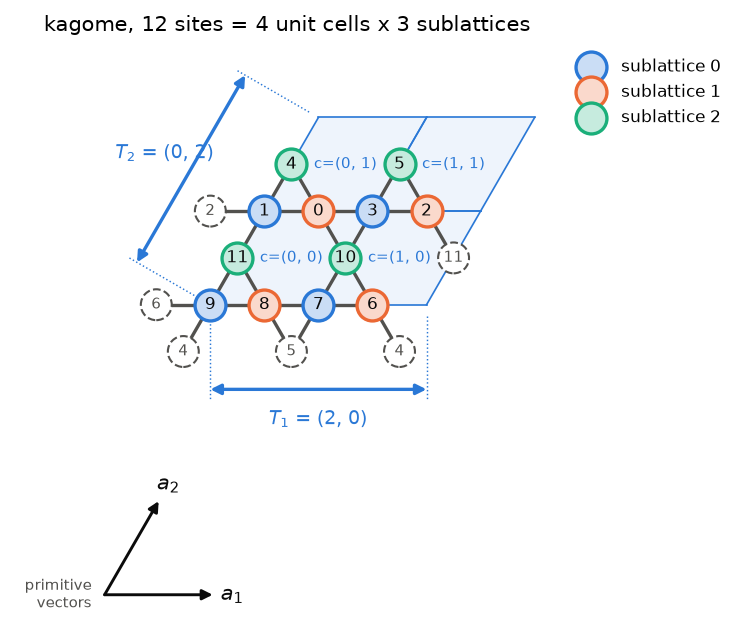
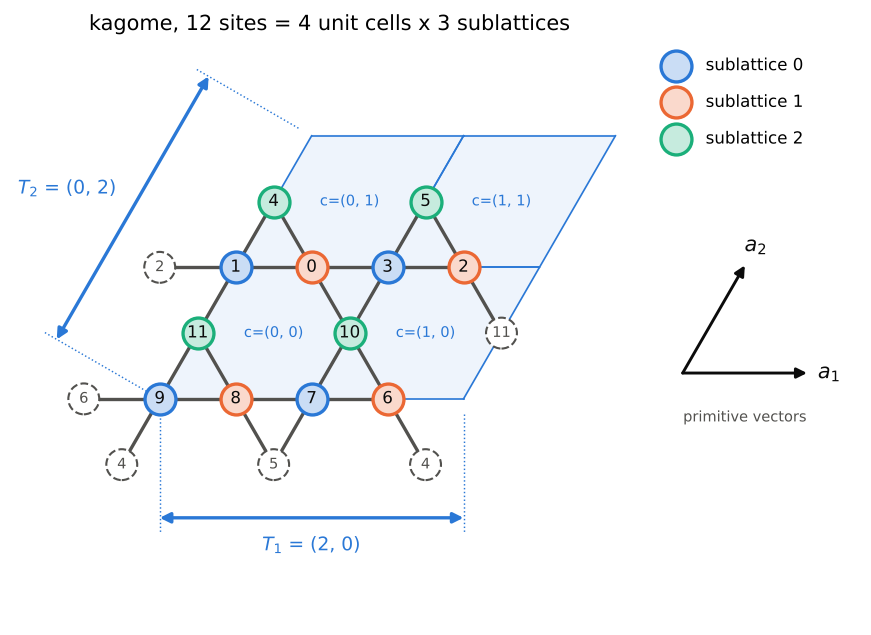
Plot: clearer quick-start figure
The T labels grow away from their arrows, the legend entries have more room,
and the primitive-vector key sits below the legend.

Claude-Session: https://claude.ai/code/session_01Rhgjahj6f6kNAEbg1WQurS

diff --git a/src/clustercert/plot.py b/src/clustercert/plot.py
@@ -171,23 +171,26 @@ def plot(result, lattice=None, *, further=(), details=False, ax=None, labels=Non
             for end in (0 * v, v):         # thin ticks back to the supercell corners
                 ax.plot(*zip(end + 0.1 * reach * normal, base + end + 0.1 * reach * normal), color=ACCENT,
                         lw=0.7, ls=':')
-            ax.text(*(base + v / 2 + 0.28 * reach * normal), f'$T_{j + 1}$ = {tuple(h[j])}',
-                    color=ACCENT, fontsize=9, ha='center', va='center', rotation=0)
+            # the label grows away from the arrow, so a slanted arrow does not cut through it
+            ha = 'right' if normal[0] < -0.3 else 'left' if normal[0] > 0.3 else 'center'
+            va = 'top' if normal[1] < -0.3 else 'bottom' if normal[1] > 0.3 else 'center'
+            ax.text(*(base + v / 2 + 0.12 * reach * normal), f'$T_{j + 1}$ = {tuple(h[j])}',
+                    color=ACCENT, fontsize=9, ha=ha, va=va, rotation=0)
             tips += [base, base + v, base + v / 2 + 0.5 * reach * normal]
-        # a key for the primitive vectors, below and left of everything drawn
-        drawn = np.vstack([points, *[e for e, _ in images.values()], *corners, *tips])
-        start = drawn.min(0) - 0.3 * reach
-        start[1 if not three_d else 2] -= 1.1 * reach
+        # a key for the primitive vectors, in its own small axes below the legend
+        key = ax.inset_axes([1.04, 0.32, 0.3, 0.35])
         for i, v in enumerate(vec):
-            if three_d:
-                ax.quiver(*start, *v, arrow_length_ratio=0.15, color=INK, lw=1.4)
-            else:
-                ax.annotate('', start + v, start, arrowprops=dict(arrowstyle='-|>', shrinkA=0, shrinkB=0,
-                                                                  color=INK, lw=1.4))
-            ax.text(*(start + 1.18 * v), f'$a_{i + 1}$', color=INK, fontsize=10, ha='center', va='center')
-        ax.text(*(start - 0.12 * reach * np.eye(lattice.dim)[0]), 'primitive\nvectors', color=GREY, fontsize=7,
-                ha='right', va='center')
-        ax.update_datalim(np.vstack([start - 0.6 * reach * np.eye(2)[0], start + vec * 1.25, *tips]))
+            key.annotate('', v, (0, 0), arrowprops=dict(arrowstyle='-|>', shrinkA=0, shrinkB=0, color=INK,
+                                                        lw=1.4))
+            key.text(*(1.18 * v), f'$a_{i + 1}$', color=INK, fontsize=10, ha='center', va='center')
+        key.text(0.5 * reach, -0.3 * reach, 'primitive vectors', color=GREY, fontsize=7, ha='center',
+                 va='top')
+        ends = np.vstack([np.zeros(2), 1.3 * vec, [0, -0.5 * reach], [reach, -0.5 * reach]])
+        key.set_xlim(ends[:, 0].min() - 0.1 * reach, ends[:, 0].max() + 0.1 * reach)
+        key.set_ylim(ends[:, 1].min(), ends[:, 1].max())
+        key.set_aspect('equal')
+        key.axis('off')
+        ax.update_datalim(np.vstack(tips))
         ax.autoscale_view()
 
     n = len(where)
@@ -195,7 +198,7 @@ def plot(result, lattice=None, *, further=(), details=False, ax=None, labels=Non
                if details else f'{lattice.name}, {n} sites, periods {[list(r) for r in h]}')
     ax.set_title(title if title is not None else default, fontsize=10)
     if further or details:
-        ax.legend(loc='upper left', bbox_to_anchor=(1, 1), fontsize=8, frameon=False)
+        ax.legend(loc='upper left', bbox_to_anchor=(1, 1), fontsize=8, frameon=False, labelspacing=1.2)
     if three_d:
         span = np.ptp(np.vstack([points, *corners]), axis=0)
         ax.set_box_aspect(span)
